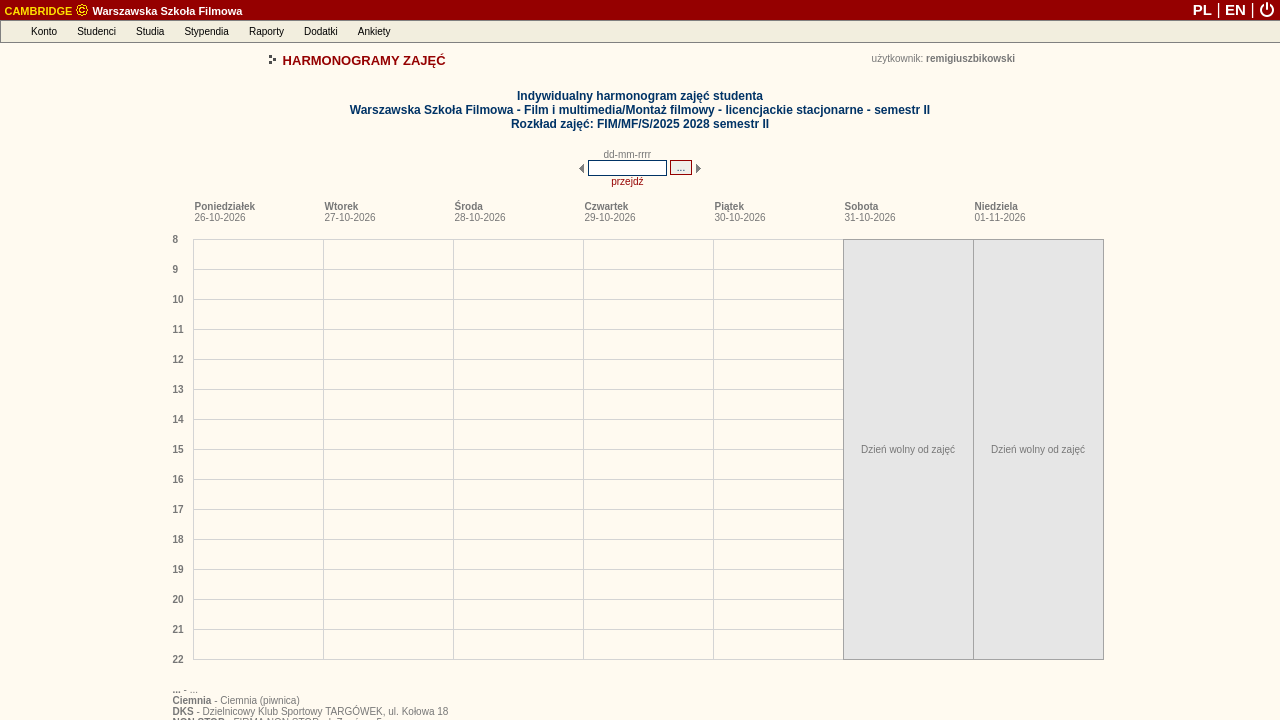
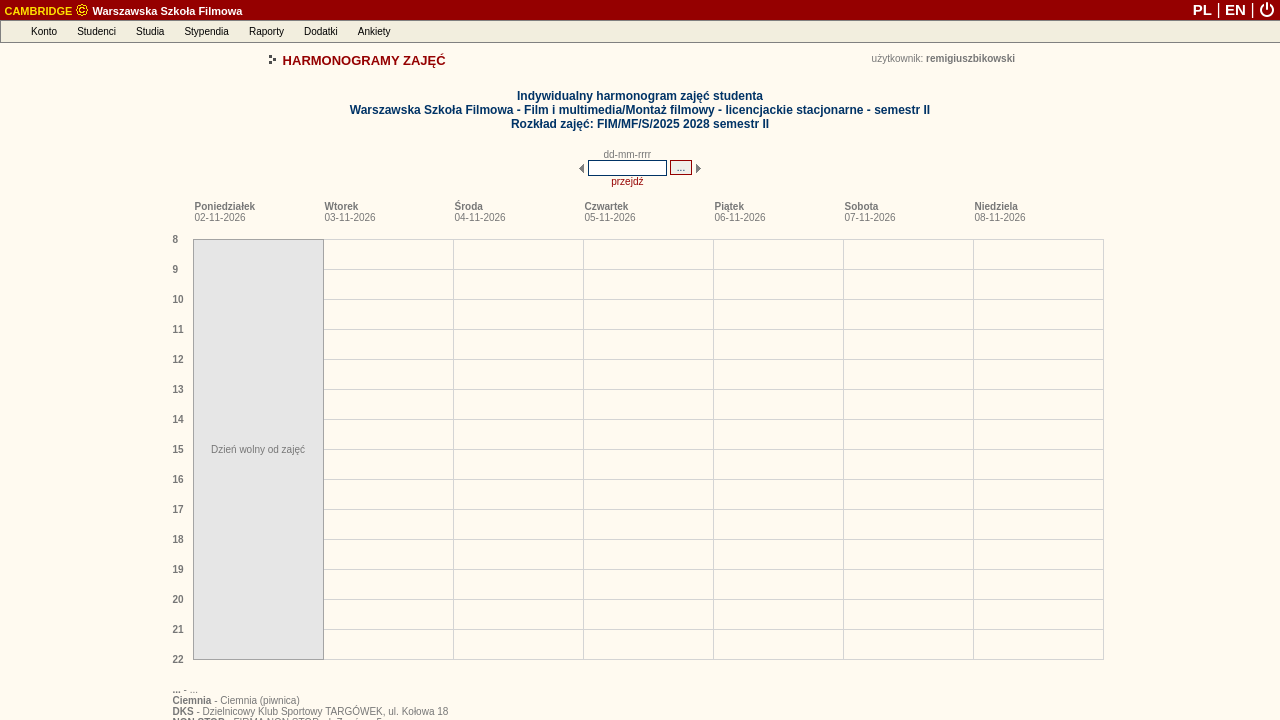
deploy: 0089a95886e71301e0455e70b701082a0dc46df1

Changed region(s): [[0.6562, 0.3056, 0.875, 0.9167], [0.125, 0.3056, 0.25, 0.9167]]

diff --git a/debug_harmonogram_page.html b/debug_harmonogram_page.html
@@ -163,8 +163,8 @@
 
 
 
-<link rel="stylesheet" type="text/css" href="/palio/html.run?_Instance=cambridge&amp;_PageID=4&amp;_SessionID=1731043&amp;_SessionKey=1292272944&amp;ZoomView=&amp;DisplayMode=&amp;_CheckSum=1629600011">
-<script language="javascript" type="text/javascript" src="/palio/html.run?_Instance=cambridge&amp;_PageID=5&amp;_SessionID=1731043&amp;_SessionKey=1292272944&amp;_CheckSum=-902730595"></script>
+<link rel="stylesheet" type="text/css" href="/palio/html.run?_Instance=cambridge&amp;_PageID=4&amp;_SessionID=1731130&amp;_SessionKey=824087769&amp;ZoomView=&amp;DisplayMode=&amp;_CheckSum=-741279717">
+<script language="javascript" type="text/javascript" src="/palio/html.run?_Instance=cambridge&amp;_PageID=5&amp;_SessionID=1731130&amp;_SessionKey=824087769&amp;_CheckSum=-1244085905"></script>
 
 
 
@@ -354,9 +354,9 @@ CambridgeMenuBar = new jsDOMenuBar("absolute", true)
 
 AccountMenu=new jsDOMenu(200, "", "absolute", false);
 
-AccountMenu.addMenuItem(new menuItem("Zmiana hasła", "", "/palio/html.run?_Instance=cambridge&amp;_PageID=11&amp;_SessionID=1731043&amp;_SessionKey=1292272944&amp;_CheckSum=1126303246"));
+AccountMenu.addMenuItem(new menuItem("Zmiana hasła", "", "/palio/html.run?_Instance=cambridge&amp;_PageID=11&amp;_SessionID=1731130&amp;_SessionKey=824087769&amp;_CheckSum=1453766110"));
 
-  AccountMenu.addMenuItem(new menuItem("Komunikator", "", "/palio/html.run?_Instance=cambridge&amp;_PageID=180&amp;_SessionID=1731043&amp;_SessionKey=1292272944&amp;_CheckSum=321343465"));
+  AccountMenu.addMenuItem(new menuItem("Komunikator", "", "/palio/html.run?_Instance=cambridge&amp;_PageID=180&amp;_SessionID=1731130&amp;_SessionKey=824087769&amp;_CheckSum=-1204599645"));
 
 
 
@@ -369,7 +369,7 @@ AccountMenu.addMenuItem(new menuItem("Yammer", "", "https://www.yammer.com/onlin
 
 AccountMenu.addMenuItem(new menuItem("-"));
 
-AccountMenu.addMenuItem(new menuItem("Wylogowanie", "", "https://student.szkolafilmowa.pl/palio/html.run?_Instance=cambridge&amp;_PageID=10012&amp;_Action=Logout&amp;_SessionID=1731043&amp;_SessionKey=1292272944"));
+AccountMenu.addMenuItem(new menuItem("Wylogowanie", "", "https://student.szkolafilmowa.pl/palio/html.run?_Instance=cambridge&amp;_PageID=10012&amp;_Action=Logout&amp;_SessionID=1731130&amp;_SessionKey=824087769"));
 
 CambridgeMenuBar.addMenuBarItem(new menuBarItem("Konto", AccountMenu));
 
@@ -382,12 +382,12 @@ StudentsMenu=new jsDOMenu(320, "", "absolute", false);
 
 
 
-StudentsMenu.addMenuItem(new menuItem("Moje dane", "", "/palio/html.run?_Instance=cambridge&amp;_PageID=185&amp;_SessionID=1731043&amp;_SessionKey=1292272944&amp;_CheckSum=-741817468"));
+StudentsMenu.addMenuItem(new menuItem("Moje dane", "", "/palio/html.run?_Instance=cambridge&amp;_PageID=185&amp;_SessionID=1731130&amp;_SessionKey=824087769&amp;_CheckSum=1947693480"));
 
 
 
 
-StudentsMenu.addMenuItem(new menuItem("Moje indeksy", "", "/palio/html.run?_Instance=cambridge&amp;_PageID=186&amp;_SessionID=1731043&amp;_SessionKey=1292272944&amp;_CheckSum=1622530723"));
+StudentsMenu.addMenuItem(new menuItem("Moje indeksy", "", "/palio/html.run?_Instance=cambridge&amp;_PageID=186&amp;_SessionID=1731130&amp;_SessionKey=824087769&amp;_CheckSum=-1716815191"));
 
 
 
@@ -426,7 +426,7 @@ StudiesMenu=new jsDOMenu(250, "", "absolute", false);
 
 
 
-StudiesMenu.addMenuItem(new menuItem("Moje plany studiów", "", "/palio/html.run?_Instance=cambridge&amp;_PageID=258&amp;_SessionID=1731043&amp;_SessionKey=1292272944&amp;_CheckSum=1316122109"));
+StudiesMenu.addMenuItem(new menuItem("Moje plany studiów", "", "/palio/html.run?_Instance=cambridge&amp;_PageID=258&amp;_SessionID=1731130&amp;_SessionKey=824087769&amp;_CheckSum=1321341967"));
 
 
 
@@ -434,13 +434,13 @@ StudiesMenu.addMenuItem(new menuItem("Moje plany studiów", "", "/palio/html.run
 
 
 
-StudiesMenu.addMenuItem(new menuItem("Harmonogramy zajęć", "", "/palio/html.run?_Instance=cambridge&amp;_PageID=95&amp;_SessionID=1731043&amp;_SessionKey=1292272944&amp;_CheckSum=-58406766"));
+StudiesMenu.addMenuItem(new menuItem("Harmonogramy zajęć", "", "/palio/html.run?_Instance=cambridge&amp;_PageID=95&amp;_SessionID=1731130&amp;_SessionKey=824087769&amp;_CheckSum=1415549658"));
 
-StudiesMenu.addMenuItem(new menuItem("Harmonogramy moich zajęć", "", "/palio/html.run?_Instance=cambridge&amp;_PageID=191&amp;_SessionID=1731043&amp;_SessionKey=1292272944&amp;_CheckSum=-1328925751"));
+StudiesMenu.addMenuItem(new menuItem("Harmonogramy moich zajęć", "", "/palio/html.run?_Instance=cambridge&amp;_PageID=191&amp;_SessionID=1731130&amp;_SessionKey=824087769&amp;_CheckSum=1790207171"));
 
-StudiesMenu.addMenuItem(new menuItem("Harmonogramy innych zajęć", "", "/palio/html.run?_Instance=cambridge&amp;_PageID=248&amp;_SessionID=1731043&amp;_SessionKey=1292272944&amp;_CheckSum=1035772220"));
+StudiesMenu.addMenuItem(new menuItem("Harmonogramy innych zajęć", "", "/palio/html.run?_Instance=cambridge&amp;_PageID=248&amp;_SessionID=1731130&amp;_SessionKey=824087769&amp;_CheckSum=-1043006224"));
 
-StudiesMenu.addMenuItem(new menuItem("Harmonogramy zajętości sal", "", "/palio/html.run?_Instance=cambridge&amp;_PageID=269&amp;_SessionID=1731043&amp;_SessionKey=1292272944&amp;_CheckSum=-334147107"));
+StudiesMenu.addMenuItem(new menuItem("Harmonogramy zajętości sal", "", "/palio/html.run?_Instance=cambridge&amp;_PageID=269&amp;_SessionID=1731130&amp;_SessionKey=824087769&amp;_CheckSum=21181487"));
 
 
 
@@ -470,9 +470,9 @@ CambridgeMenuBar.addMenuBarItem(new menuBarItem("Studia", StudiesMenu));
 ScholarshipsMenu=new jsDOMenu(230, "", "absolute", false);
 
 
-ScholarshipsMenu.addMenuItem(new menuItem("Moje stypendia", "", "/palio/html.run?_Instance=cambridge&amp;_PageID=187&amp;_SessionID=1731043&amp;_SessionKey=1292272944&amp;_CheckSum=-308088382"));
+ScholarshipsMenu.addMenuItem(new menuItem("Moje stypendia", "", "/palio/html.run?_Instance=cambridge&amp;_PageID=187&amp;_SessionID=1731130&amp;_SessionKey=824087769&amp;_CheckSum=-1086356566"));
 
-ScholarshipsMenu.addMenuItem(new menuItem("Mój numer rachunku", "", "/palio/html.run?_Instance=cambridge&amp;_PageID=380&amp;_SessionID=1731043&amp;_SessionKey=1292272944&amp;_CheckSum=523167399"));
+ScholarshipsMenu.addMenuItem(new menuItem("Mój numer rachunku", "", "/palio/html.run?_Instance=cambridge&amp;_PageID=380&amp;_SessionID=1731130&amp;_SessionKey=824087769&amp;_CheckSum=-643899867"));
 
 
 
@@ -482,9 +482,9 @@ ScholarshipsMenu.addMenuItem(new menuItem("Mój numer rachunku", "", "/palio/htm
 ScholarshipsMenu.addMenuItem(new menuItem("-"));
 
 
-ScholarshipsMenu.addMenuItem(new menuItem("Fundusze stypendialne", "", "/palio/html.run?_Instance=cambridge&amp;_PageID=54&amp;_SessionID=1731043&amp;_SessionKey=1292272944&amp;_CheckSum=750812783"));
+ScholarshipsMenu.addMenuItem(new menuItem("Fundusze stypendialne", "", "/palio/html.run?_Instance=cambridge&amp;_PageID=54&amp;_SessionID=1731130&amp;_SessionKey=824087769&amp;_CheckSum=-82367139"));
 
-ScholarshipsMenu.addMenuItem(new menuItem("Rodzaje stypendiów", "", "/palio/html.run?_Instance=cambridge&amp;_PageID=55&amp;_SessionID=1731043&amp;_SessionKey=1292272944&amp;_CheckSum=-1179806322"));
+ScholarshipsMenu.addMenuItem(new menuItem("Rodzaje stypendiów", "", "/palio/html.run?_Instance=cambridge&amp;_PageID=55&amp;_SessionID=1731130&amp;_SessionKey=824087769&amp;_CheckSum=548091486"));
 
 
 
@@ -495,7 +495,7 @@ CambridgeMenuBar.addMenuBarItem(new menuBarItem("Stypendia", ScholarshipsMenu));
 ReportsMenu=new jsDOMenu(200, "", "absolute", false);
 
 
-ReportsMenu.addMenuItem(new menuItem("Generowanie raportów", "", "/palio/html.run?_Instance=cambridge&amp;_PageID=68&amp;_SessionID=1731043&amp;_SessionKey=1292272944&amp;_CheckSum=1898620844"));
+ReportsMenu.addMenuItem(new menuItem("Generowanie raportów", "", "/palio/html.run?_Instance=cambridge&amp;_PageID=68&amp;_SessionID=1731130&amp;_SessionKey=824087769&amp;_CheckSum=508848256"));
 
 
 
@@ -505,7 +505,7 @@ CambridgeMenuBar.addMenuBarItem(new menuBarItem("Raporty", ReportsMenu));
 
 AdditionalsMenu=new jsDOMenu(200, "", "absolute", false);
 
-AdditionalsMenu.addMenuItem(new menuItem("Forum internetowe", "", "/palio/html.run?_Instance=cambridge&amp;_PageID=8001&amp;_SessionID=1731043&amp;_SessionKey=1292272944&amp;_CheckSum=1155057621"));
+AdditionalsMenu.addMenuItem(new menuItem("Forum internetowe", "", "/palio/html.run?_Instance=cambridge&amp;_PageID=8001&amp;_SessionID=1731130&amp;_SessionKey=824087769&amp;_CheckSum=2008882999"));
 
 
 
@@ -539,7 +539,7 @@ PollsMenu=new jsDOMenu(225, "", "absolute", false);
 
 
 
-PollsMenu.addMenuItem(new menuItem("Wypełnianie ankiet", "", "/palio/html.run?_Instance=cambridge&amp;_PageID=227&amp;_SessionID=1731043&amp;_SessionKey=1292272944&amp;_CheckSum=-1889275749"));
+PollsMenu.addMenuItem(new menuItem("Wypełnianie ankiet", "", "/palio/html.run?_Instance=cambridge&amp;_PageID=227&amp;_SessionID=1731130&amp;_SessionKey=824087769&amp;_CheckSum=-2107193935"));
 
 
 CambridgeMenuBar.addMenuBarItem(new menuBarItem("Ankiety", PollsMenu));
@@ -576,7 +576,7 @@ CambridgeMenuBar.moveTo(0,20);
 <table width="100%" border="0" cellspacing="0" cellpadding="0" align="center">
 <tbody><tr class="top_belt">
 
-<td align="left" height="20"><b>&nbsp;<a class="belt" href="/palio/html.run?_Instance=cambridge&amp;_PageID=6&amp;_SessionID=1731043&amp;_SessionKey=1292272944&amp;_CheckSum=1461617596"><span class="belt_application">CAMBRIDGE</span> <img src="/palio/html.media?_Instance=cambridge&amp;_Option=Palio&amp;_ID=51&amp;_CheckSum=684598873" width="14" height="14" border="0" style="position:relative;top:-2px;vertical-align:bottom"> Warszawska Szkoła Filmowa</a></b></td>
+<td align="left" height="20"><b>&nbsp;<a class="belt" href="/palio/html.run?_Instance=cambridge&amp;_PageID=6&amp;_SessionID=1731130&amp;_SessionKey=824087769&amp;_CheckSum=-613627280"><span class="belt_application">CAMBRIDGE</span> <img src="/palio/html.media?_Instance=cambridge&amp;_Option=Palio&amp;_ID=51&amp;_CheckSum=684598873" width="14" height="14" border="0" style="position:relative;top:-2px;vertical-align:bottom"> Warszawska Szkoła Filmowa</a></b></td>
 <td align="right">
 
 
@@ -587,13 +587,13 @@ CambridgeMenuBar.moveTo(0,20);
 
 
 
-<a href="/palio/html.run?_Instance=cambridge&amp;_PageID=6&amp;_SessionID=1731043&amp;_SessionKey=1292272944&amp;SetLanguage=pl&amp;_CheckSum=2117030110" class="belt" style="font-size:15px;line-height:18px;text-decoration:none" title="polski"><b>PL</b></a>
+<a href="/palio/html.run?_Instance=cambridge&amp;_PageID=6&amp;_SessionID=1731130&amp;_SessionKey=824087769&amp;SetLanguage=pl&amp;_CheckSum=-376830550" class="belt" style="font-size:15px;line-height:18px;text-decoration:none" title="polski"><b>PL</b></a>
 <span class="belt" style="font-size:16px">|</span>
-<a href="/palio/html.run?_Instance=cambridge&amp;_PageID=6&amp;_SessionID=1731043&amp;_SessionKey=1292272944&amp;SetLanguage=en&amp;_CheckSum=-285153903" class="belt" style="font-size:15px;line-height:18px;text-decoration:none" title="english"><b>EN</b></a>
+<a href="/palio/html.run?_Instance=cambridge&amp;_PageID=6&amp;_SessionID=1731130&amp;_SessionKey=824087769&amp;SetLanguage=en&amp;_CheckSum=1515952733" class="belt" style="font-size:15px;line-height:18px;text-decoration:none" title="english"><b>EN</b></a>
 <span class="belt" style="font-size:16px">|</span>
 
 
-<img src="/palio/html.media?_Instance=cambridge&amp;_Option=Palio&amp;_ID=94&amp;_CheckSum=-1316787974" style="cursor:pointer;vertical-align:bottom;margin-bottom:2px;margin-right:5px" alt="Wyloguj" title="Wyloguj" onclick="if(confirm('Czy na pewno chcesz się wylogować?'))window.location='https://student.szkolafilmowa.pl/palio/html.run?_Instance=cambridge&amp;_PageID=10012&amp;_Action=Logout&amp;_SessionID=1731043&amp;_SessionKey=1292272944'">
+<img src="/palio/html.media?_Instance=cambridge&amp;_Option=Palio&amp;_ID=94&amp;_CheckSum=-1316787974" style="cursor:pointer;vertical-align:bottom;margin-bottom:2px;margin-right:5px" alt="Wyloguj" title="Wyloguj" onclick="if(confirm('Czy na pewno chcesz się wylogować?'))window.location='https://student.szkolafilmowa.pl/palio/html.run?_Instance=cambridge&amp;_PageID=10012&amp;_Action=Logout&amp;_SessionID=1731130&amp;_SessionKey=824087769'">
 </td>
 
 </tr>
@@ -2177,16 +2177,16 @@ document.schedule_scroll_form.submit();
 }
 function goForward()
 {
-document.schedule_scroll_form._firstDayOfWeek.value = '02-11-2026';
+document.schedule_scroll_form._firstDayOfWeek.value = '09-11-2026';
 document.schedule_scroll_form.submit();
 }
 function goBackward()
 {
-document.schedule_scroll_form._firstDayOfWeek.value = '24-10-2026';
+document.schedule_scroll_form._firstDayOfWeek.value = '31-10-2026';
 document.schedule_scroll_form.submit();
 }
 </script>
-<form method="post" name="schedule_scroll_form" id="schedule_scroll_form" action="/palio/html.run?_Instance=cambridge&amp;_PageID=191&amp;_SessionID=1731043&amp;_SessionKey=1292272944&amp;_RowID=7251&amp;_RowIDType=I&amp;_CheckSum=283741589" onsubmit="return checkFrm_schedule_scroll_form(this)">
+<form method="post" name="schedule_scroll_form" id="schedule_scroll_form" action="/palio/html.run?_Instance=cambridge&amp;_PageID=191&amp;_SessionID=1731130&amp;_SessionKey=824087769&amp;_RowID=7251&amp;_RowIDType=I&amp;_CheckSum=1644880859" onsubmit="return checkFrm_schedule_scroll_form(this)">
 <div style="display:none;"><input type="hidden" name="_formSubmitted" value="yes"></div>
 <input type="hidden" name="_firstDayOfWeek">
 <table cellspacing="0" cellpadding="0" border="0" align="center">
@@ -2986,22 +2986,6 @@ return true;
 
 
 
-
-
-
-
-
-
-
-
-
-
-
-
-
-
-
-
 <br>
 
 
@@ -3020,60 +3004,6 @@ return true;
 
 
 
- 
- 
- 
-
-
-
-
-
-
-
-
-
-
-
-
-
-
-
-
-
-
-
-
-
-
-
-
-
-
-
-
-
-
-
-
-
-
-
-
-
-
-
-
-
-
-
-
-
-
-
-
-
-
-
 
 
 
@@ -3153,7 +3083,6 @@ return true;
 
 
 
-  
 
 
 
@@ -3627,7 +3556,7 @@ tipDivElement.style.visibility="hidden"
 <tbody><tr><td class="font">
 <b class="font">Poniedziałek</b><br>
 
-<span class="font">26-10-2026</span>
+<span class="font">02-11-2026</span>
 </td></tr>
 </tbody></table>
 </div>
@@ -3642,7 +3571,7 @@ tipDivElement.style.visibility="hidden"
 <tbody><tr><td class="font">
 <b class="font">Wtorek</b><br>
 
-<span class="font">27-10-2026</span>
+<span class="font">03-11-2026</span>
 </td></tr>
 </tbody></table>
 </div>
@@ -3657,7 +3586,7 @@ tipDivElement.style.visibility="hidden"
 <tbody><tr><td class="font">
 <b class="font">Środa</b><br>
 
-<span class="font">28-10-2026</span>
+<span class="font">04-11-2026</span>
 </td></tr>
 </tbody></table>
 </div>
@@ -3672,7 +3601,7 @@ tipDivElement.style.visibility="hidden"
 <tbody><tr><td class="font">
 <b class="font">Czwartek</b><br>
 
-<span class="font">29-10-2026</span>
+<span class="font">05-11-2026</span>
 </td></tr>
 </tbody></table>
 </div>
@@ -3687,7 +3616,7 @@ tipDivElement.style.visibility="hidden"
 <tbody><tr><td class="font">
 <b class="font">Piątek</b><br>
 
-<span class="font">30-10-2026</span>
+<span class="font">06-11-2026</span>
 </td></tr>
 </tbody></table>
 </div>
@@ -3702,7 +3631,7 @@ tipDivElement.style.visibility="hidden"
 <tbody><tr><td class="font">
 <b class="font">Sobota</b><br>
 
-<span class="font">31-10-2026</span>
+<span class="font">07-11-2026</span>
 </td></tr>
 </tbody></table>
 </div>
@@ -3717,7 +3646,7 @@ tipDivElement.style.visibility="hidden"
 <tbody><tr><td class="font">
 <b class="font">Niedziela</b><br>
 
-<span class="font">01-11-2026</span>
+<span class="font">08-11-2026</span>
 </td></tr>
 </tbody></table>
 </div>
@@ -3743,35 +3672,7 @@ tipDivElement.style.visibility="hidden"
 <div style="
 position:absolute;
 top:0;
-left:800;
-width:129;
-height:419.00;
-layer-background-color:#E6E6E6;
-background-color:#E6E6E6;
-border:1px solid #A4A4A4;
-z-index:0;">
-<table cellspacing="0" cellpadding="0" align="center" width="129">
-<tbody><tr><td width="129" align="center" class="font" valign="middle" height="419.00">Dzień wolny od zajęć</td></tr>
-</tbody></table>
-</div>
-
-
-
-
-
-
-
-
-
-
-
-
-
-
-<div style="
-position:absolute;
-top:0;
-left:670;
+left:20;
 width:129;
 height:419.00;
 layer-background-color:#E6E6E6;
@@ -3808,8 +3709,8 @@ z-index:0;">
 <td align="right">
 <table cellspacing="0" cellpadding="2" border="0">
 <tbody><tr>
-<td valign="middle"><a class="link" href="/palio/html.run?_Instance=cambridge&amp;_PageID=96&amp;_SessionID=1731043&amp;_SessionKey=1292272944&amp;_RowID=7251&amp;_RowIDType=I&amp;_firstDayOfWeek=26-10-2026&amp;_CheckSum=121055166" target="_blank">drukuj</a></td>
-<td valign="middle"><a class="link" href="/palio/html.run?_Instance=cambridge&amp;_PageID=96&amp;_SessionID=1731043&amp;_SessionKey=1292272944&amp;_RowID=7251&amp;_RowIDType=I&amp;_firstDayOfWeek=26-10-2026&amp;_CheckSum=121055166" target="_blank"><img src="/palio/html.media?_Instance=cambridge&amp;_Option=Palio&amp;_ID=26&amp;_CheckSum=1936112049" awidth="16" height="14" alt="drukuj" title="drukuj" border="0"></a></td>
+<td valign="middle"><a class="link" href="/palio/html.run?_Instance=cambridge&amp;_PageID=96&amp;_SessionID=1731130&amp;_SessionKey=824087769&amp;_RowID=7251&amp;_RowIDType=I&amp;_firstDayOfWeek=02-11-2026&amp;_CheckSum=-1809160469" target="_blank">drukuj</a></td>
+<td valign="middle"><a class="link" href="/palio/html.run?_Instance=cambridge&amp;_PageID=96&amp;_SessionID=1731130&amp;_SessionKey=824087769&amp;_RowID=7251&amp;_RowIDType=I&amp;_firstDayOfWeek=02-11-2026&amp;_CheckSum=-1809160469" target="_blank"><img src="/palio/html.media?_Instance=cambridge&amp;_Option=Palio&amp;_ID=26&amp;_CheckSum=1936112049" awidth="16" height="14" alt="drukuj" title="drukuj" border="0"></a></td>
 </tr>
 </tbody></table>
 </td>
@@ -3841,7 +3742,7 @@ z-index:0;">
 
 
 
-<input type="button" name="jump_action" value="Powrót do listy harmonogramów zajęć" class="button" onclick="window.location='/palio/html.run?_Instance=cambridge&amp;_PageID=191&amp;_SessionID=1731043&amp;_SessionKey=1292272944&amp;_CheckSum=-1328925751'">
+<input type="button" name="jump_action" value="Powrót do listy harmonogramów zajęć" class="button" onclick="window.location='/palio/html.run?_Instance=cambridge&amp;_PageID=191&amp;_SessionID=1731130&amp;_SessionKey=824087769&amp;_CheckSum=1790207171'">
 
 
 
@@ -3866,7 +3767,7 @@ z-index:0;">
 grayscaleImagesIE10Plus();
 </script>
 
-<p align="right" class="font"><i style="color:#aaaaaa">Czas generowania strony 131 ms</i></p>
+<p align="right" class="font"><i style="color:#aaaaaa">Czas generowania strony 112 ms</i></p>
 
 
 </body></html>
